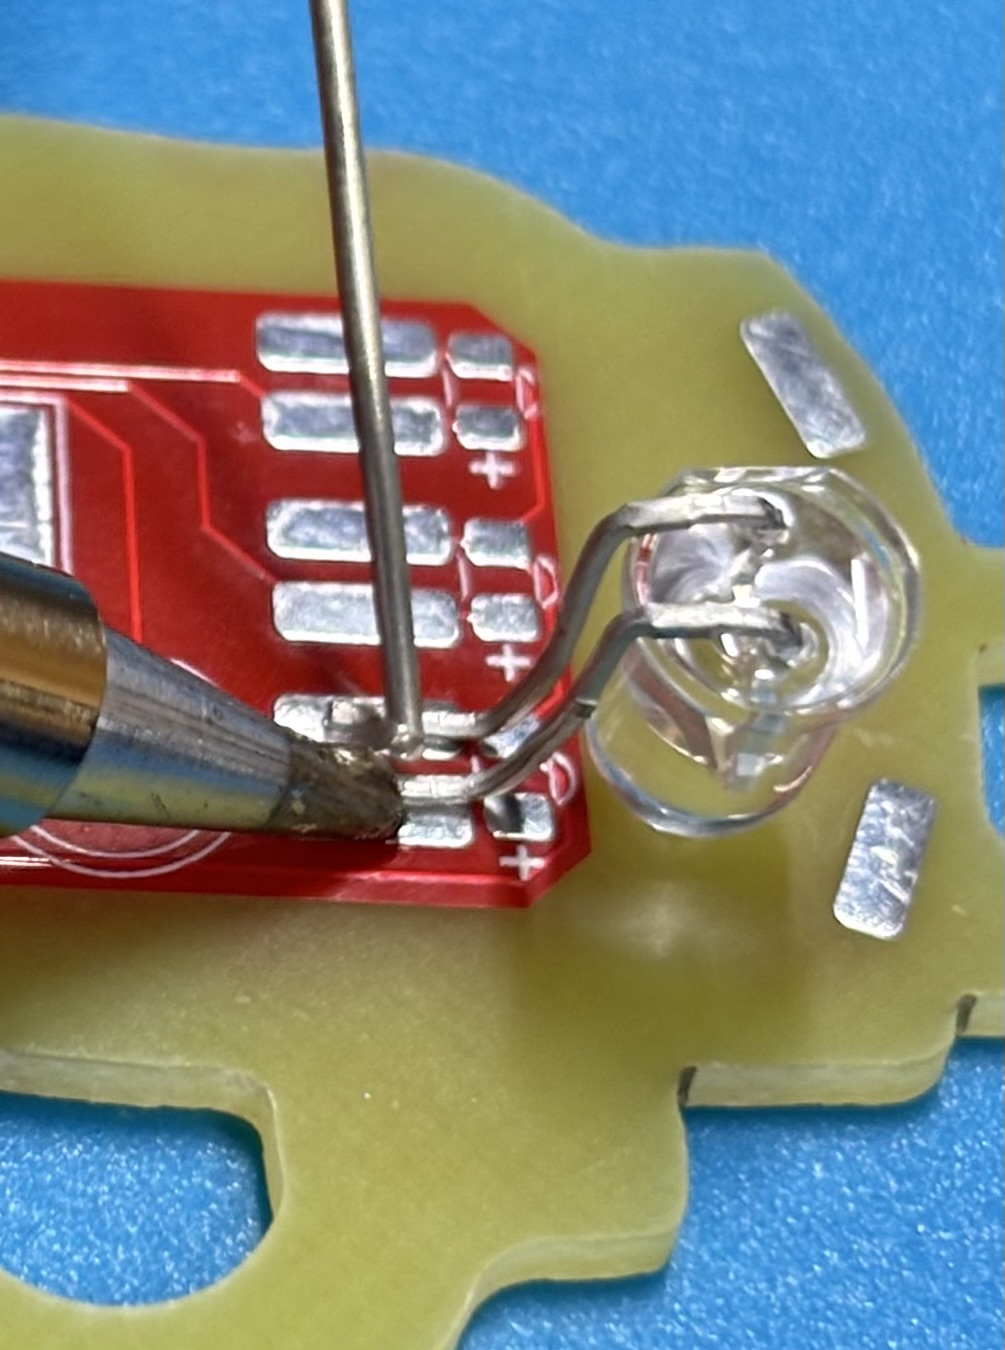
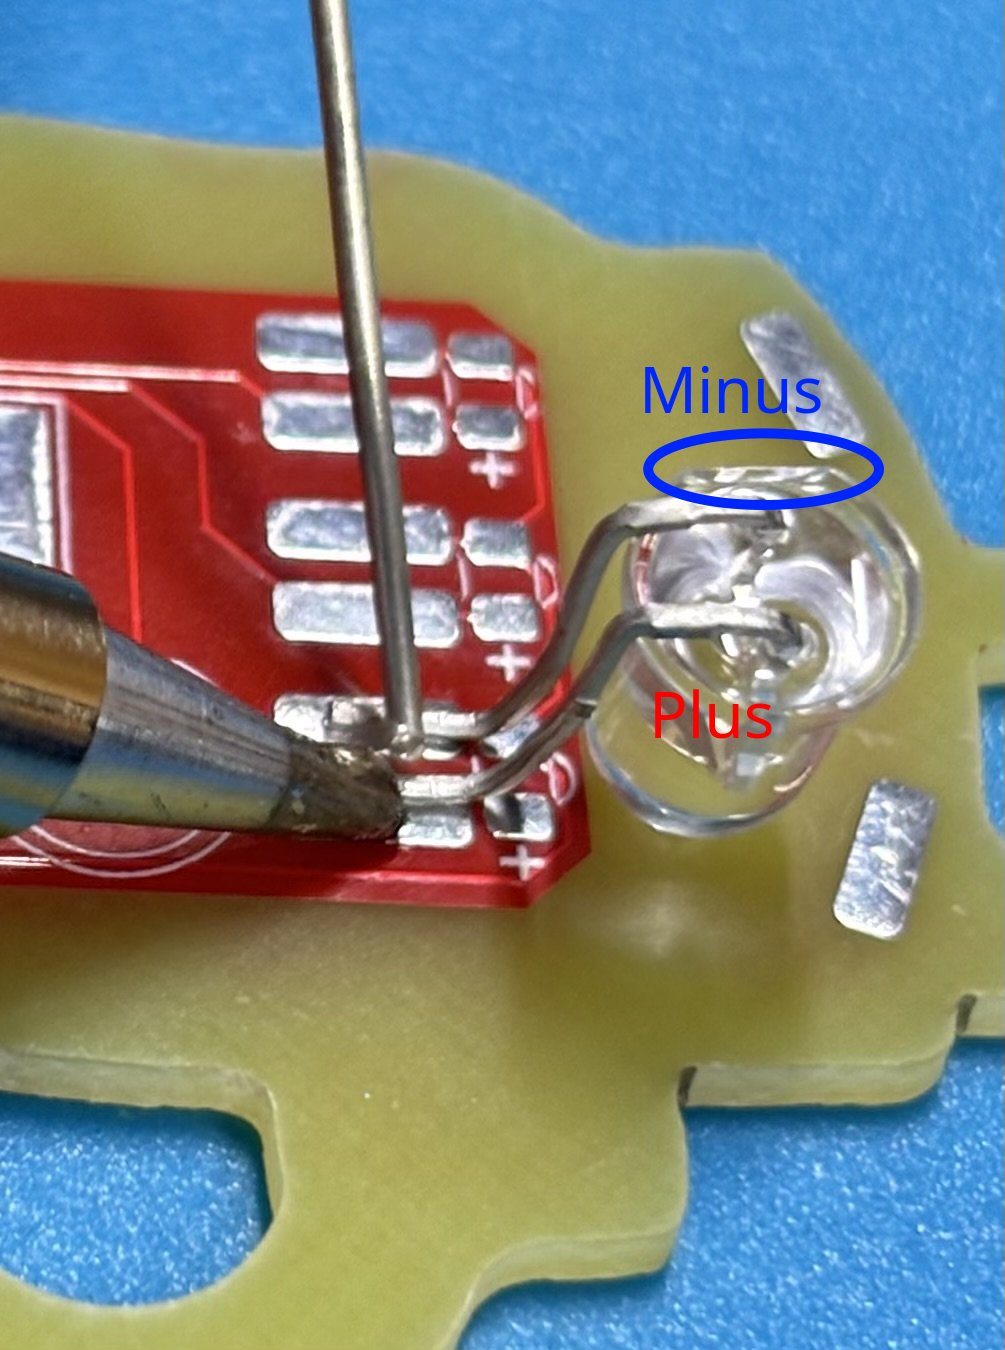
finished german instructions for level 1

Changed region(s): [[0.6169, 0.2489, 0.8945, 0.4044], [0.6478, 0.4978, 0.7711, 0.56]]

diff --git a/assembly-de.md b/assembly-de.md
@@ -14,10 +14,12 @@ Bist du mit dem Sitz des Bauteils auf dem zugehörigen Footbrint zufrieden, verl
 
 ## Von Klein nach Groß und/oder von Innen nach Außen
 
-Arbeite von innen nach außen und von kleinen Bauteilen zu großen. Es mag zwar verlockend sein, mit den großen, einfach zu lötenden Teilen anzufangen, aber möglicherweise sind sie dir dann später im Weg.
+Arbeite von innen nach außen und von kleinen Bauteilen zu großen. Es mag zwar verlockend sein, mit den großen, einfach zu lötenden Teilen anzufangen, aber üblicherweise sind sie dir dann später im Weg.
 
 
 # Schwierigkeitsgrad 1: Mit Beinchen
+
+![fertig](img/tht_done_front.jpeg)
 
 ## Benötigte Bauteile
 
@@ -33,6 +35,41 @@ In empfohlener Bestückreihenfolge sortiert:
 
 ![THT Material](img/tht_materials.jpeg)
 
+## Montage
+
+Solange die Platine noch so schön leer ist, können die 5 Lötbrücken geschlossen werden, die die LEDs dauerhaft leuchten lassen, solange der Schalter an ist. Sie sind markiert mit der Beschriftung "LEDs on".
+
+![Lötbrücken](img/tht_ledon_solder.jpeg)
+
+Als erstes Bauteil sollte bei dieser Variante der Schalter montiert werden.
+
+![Schalter](img/all_switch_solder.jpeg)
+
+Damit die Knopfzelle guten Kontakt hat, sollte noch etwas Zinn auf den negativen Batteriekontakt auf der Platine gegeben werden. Aber auch nicht zu viel, sonst sitzt die Batterie nachher zu stramm.
+
+![Batteriekontakt Minus](img/all_batneg_solder.jpeg)
+
+Danach kann der Batteriehalter dadrübergelötet werden. Hierbei am besten die beiden Verbindungen zwischen Lötpads und Batteriehalter richtig mit Zinn fluten, damit die mechanische Klemmkraft der Batterie den Halter später nicht abreißt.
+
+![Batteriehalter](img/all_batpos_solder.jpeg)
+
+Jetzt gibt es Interpretationsspielraum, wie du die LEDs am liebsten montieren magst.
+
+Hauptsache ist, dass du die beiden Beinchen richtig verbindest.
+
+Das längere Beinchen ist Plus (auf der Platine mit "+" markiert), das kürzere Beinchen Minus. Aber selbst nachdem du die Beinchen gekürzt hast, kannst du das noch zuordnen, weil das Gehäuse der LED an der Minusseite etwas abgeflacht ist.
+
+Wenn du eine LED falsch herum einbaust, leuchtet sie einfach nicht. Versuche dann, sie andersherum einzubauen.
+
+![LED verlöten](img/tht_led_solder.jpeg)
+
+![LED verlötet](img/tht_led_soldered.jpeg)
+
+So könnten das dann zum Beispiel aussehen:
+
+![LEDs Flamme verlötet](img/tht_led_soldered_flame.jpeg)
+
+![LEDs oben verlötet](img/tht_led_soldered_light.jpeg)
 
 # Schwierigkeitsgrad 2: Mit Beinchen und Microcontroller
 
